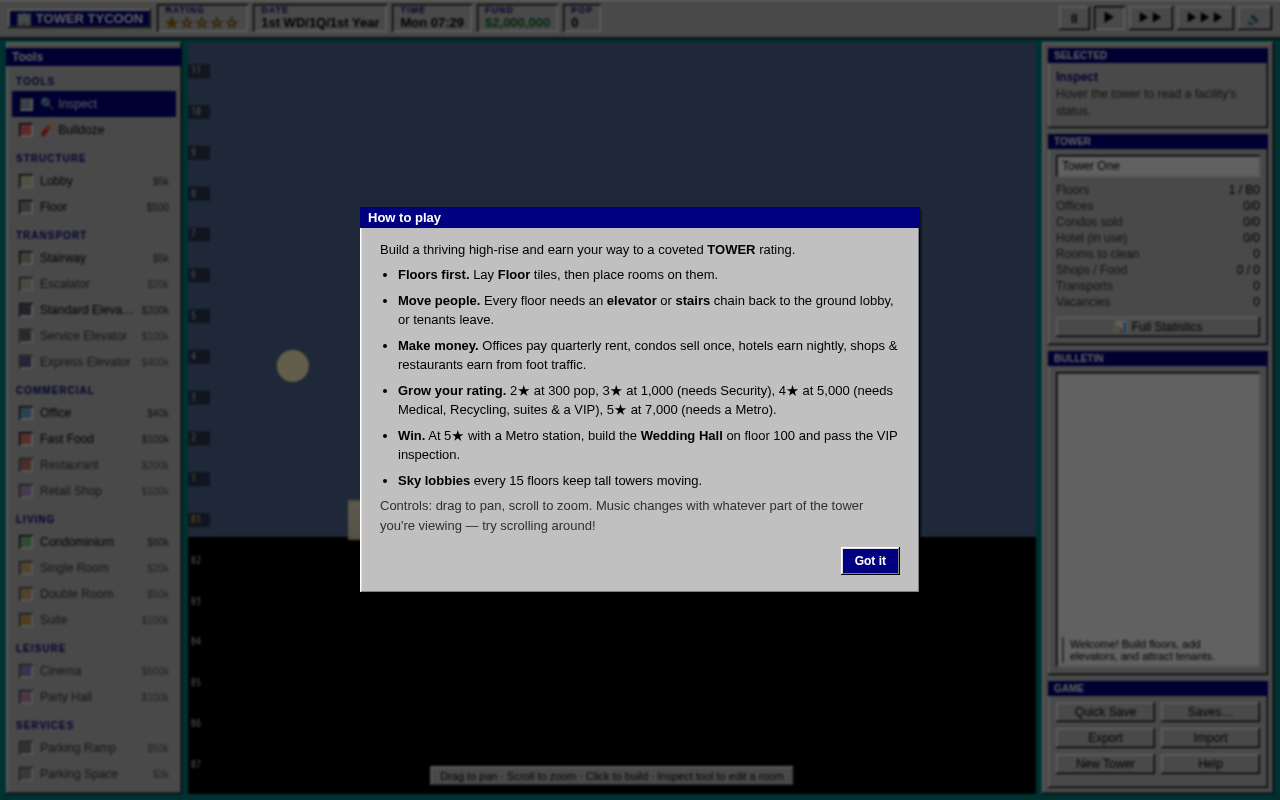
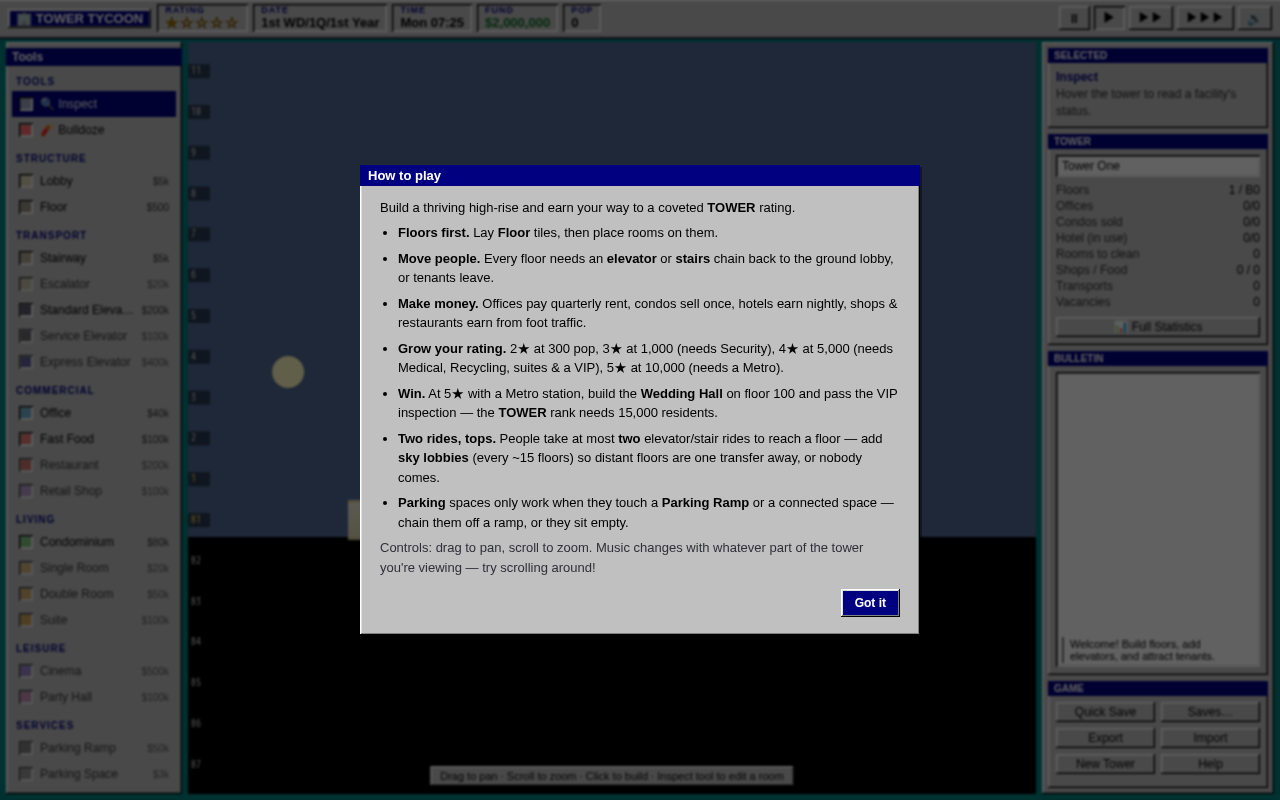
Docs: sync the in-game help + PRD FRs with the shipped parity mechanics
The help page and PRD had drifted after the canon-numbers work:
- In-game help: 5★ now reads 10,000 (was a stale 7,000); adds the TOWER=15,000
  target, the two-ride rule (build sky-lobby transfers), and parking-ramp
  chaining. Regenerated 02-help.png to match.
- PRD FR-46 / FR-67: TOWER target restored to the canonical 15,000 (no longer a
  divergence — reached by widening the lot to 340).
- PRD FR-17: parking spaces only function when chained to a Parking Ramp.
- PRD FR-68: routing honours the original's ≤2-ride (one-transfer) rule.
- PRD FR-16a: cinemas book an average or blockbuster film each month.

Claude-Session: https://claude.ai/code/session_019NA2c4AsAgUYb2ST9bkXi8

Changed region(s): [[0.2812, 0.1875, 0.7188, 0.8125], [0.2188, 0.4375, 0.25, 0.5]]

diff --git a/src/ui/UI.ts b/src/ui/UI.ts
@@ -519,9 +519,10 @@ export class UI {
         <li><b>Floors first.</b> Lay <b>Floor</b> tiles, then place rooms on them.</li>
         <li><b>Move people.</b> Every floor needs an <b>elevator</b> or <b>stairs</b> chain back to the ground lobby, or tenants leave.</li>
         <li><b>Make money.</b> Offices pay quarterly rent, condos sell once, hotels earn nightly, shops &amp; restaurants earn from foot traffic.</li>
-        <li><b>Grow your rating.</b> 2★ at 300 pop, 3★ at 1,000 (needs Security), 4★ at 5,000 (needs Medical, Recycling, suites &amp; a VIP), 5★ at 7,000 (needs a Metro).</li>
-        <li><b>Win.</b> At 5★ with a Metro station, build the <b>Wedding Hall</b> on floor 100 and pass the VIP inspection.</li>
-        <li><b>Sky lobbies</b> every 15 floors keep tall towers moving.</li>
+        <li><b>Grow your rating.</b> 2★ at 300 pop, 3★ at 1,000 (needs Security), 4★ at 5,000 (needs Medical, Recycling, suites &amp; a VIP), 5★ at 10,000 (needs a Metro).</li>
+        <li><b>Win.</b> At 5★ with a Metro station, build the <b>Wedding Hall</b> on floor 100 and pass the VIP inspection — the <b>TOWER</b> rank needs 15,000 residents.</li>
+        <li><b>Two rides, tops.</b> People take at most <b>two</b> elevator/stair rides to reach a floor — add <b>sky lobbies</b> (every ~15 floors) so distant floors are one transfer away, or nobody comes.</li>
+        <li><b>Parking</b> spaces only work when they touch a <b>Parking Ramp</b> or a connected space — chain them off a ramp, or they sit empty.</li>
       </ul>
       <p style="color:var(--muted)">Controls: drag to pan, scroll to zoom. Music changes with whatever part of the tower you're viewing — try scrolling around!</p>
       <div class="modal-actions"><button class="primary" data-act="close">Got it</button></div>

diff --git a/_bmad-output/planning-artifacts/prds/prd-simtower-llm-style-2026-06-30/prd.md b/_bmad-output/planning-artifacts/prds/prd-simtower-llm-style-2026-06-30/prd.md
@@ -247,13 +247,20 @@ mitigate problems. Each facility type unlocks at a minimum star rating
 - **FR-16** — Food/retail/entertainment facilities keep **business hours** and
   display as **CLOSED** outside them; income accrues only while open
   [`isOpenAt`, `hasBusinessHours`].
+- **FR-16a** — Each **Cinema** books a film every month (canon): an **average
+  film** (~$150,000) or, some months, a **blockbuster** (~$300,000) that costs
+  more to book but draws a bigger crowd — a genuine upside in a busy tower and a
+  gamble in a quiet one [`cinemaBookingMonthly`, `cinemaBookingBlockbuster`].
 - **FR-17** — The player can place **Service** facilities — **Parking** (3★,
   basement), **Security** (2★), **Medical Center** (3★), **Housekeeping** (2★),
   **Recycling Center** (3★, basement, 2 floors) — which generate no income and
   provide rating/mitigation effects. Security, Medical, Housekeeping, and
   Recycling each charge monthly maintenance [`ECON.serviceMaintenanceMonthly`];
   Parking carries only its build cost (no monthly service maintenance) and
-  reduces stress for tenants who drive. `[NOTE: Security unlocks at 2★ — it is
+  reduces stress for tenants who drive. Parking has two parts (canon): a
+  **Parking Ramp** and **Parking Spaces**, and a space only functions when it
+  chains — through contiguous spaces — back to a ramp; unconnected spaces are
+  dead ("red X") and provide no relief. `[NOTE: Security unlocks at 2★ — it is
   the facility that GATES 3★ (FR-44), so it must be buildable while the tower is
   still 2★, otherwise the rating deadlocks. Medical (the 4★ gate) unlocks at 3★
   for the same reason.]`
@@ -384,8 +391,10 @@ passes a **VIP inspection**. Realizes **UJ-3**, **UJ-5**.
   (jingle / headline).
 - **FR-46** — The **TOWER rank** requires: **5★** + a built **Wedding Hall**
   (floor 100) + a **Metro Station** + passing the **VIP inspection** at a
-  population target of **8,000** [`TOWER_POPULATION`]. `[NOTE FOR PM: original
-  target is 15,000; reduced to 8,000 for the smaller-scale population model —
+  population target of **15,000** [`TOWER_POPULATION`]. `[RESOLVED 2026-06-30:
+  restored to the canonical 15,000 (from the interim 8,000) by widening the
+  buildable lot to 340 tiles so a well-zoned tower can actually reach it
+  (~15,066 occupants measured); population scale is no longer a divergence —
   see §4.10 / FR-67.]`
   `[DECISION 2026-06-30 (owner): "TOWER" measures OCCUPANT POPULATION (residents +
   office workers + hotel guests) exactly as the 1994 original did — NOT total
@@ -496,17 +505,19 @@ gaps. Full rationale and the complete source-of-truth mapping live in
 - **FR-66** — The floor-100 capstone is a **Wedding Hall**, a religion-agnostic
   stand-in for the original's **Cathedral**; it fills the identical role of
   triggering the TOWER evaluation (see FR-19, FR-46).
-- **FR-67** — The TOWER goal stays a **population census** as in the 1994 original
-  (residents + office workers + hotel guests; commercial visitors excluded), at a
-  target of **8,000** rather than the original's **15,000** — the only divergence
-  is the *number* (scaled to this build), not *what is counted*. The Phase-2
-  tolerance band may re-derive the number from the spatial model, but the metric
-  stays canonical (see the DECISION note on FR-46).
+- **FR-67** — The TOWER goal is a **population census** as in the 1994 original
+  (residents + office workers + hotel guests; commercial visitors excluded), at
+  the canonical target of **15,000**. The interim scaled-down number (8,000) was
+  restored to 15,000 on 2026-06-30 by widening the lot to 340 tiles so the target
+  is genuinely reachable under the spatial model — both the metric *and* the
+  number are now canonical (see the RESOLVED note on FR-46).
 - **FR-68** — Tower transport stress is driven by an **individually-routed
   crowd** (FR-30) layered over an **aggregate congestion model** (FR-34),
   whereas the original used a single aggregate model; the on-screen crowd is
   **capped** for performance (FR-35) while the full population is still
-  simulated.
+  simulated. Routing honours the original's **two-ride rule**: a trip uses at
+  most **two transport rides** (one sky-lobby transfer), so floors reachable only
+  via 3+ rides draw no commuters — the player must provide sky-lobby transfers.
 - **FR-69** — All art and audio are **generated in code** (FR-60), and saves use
   a **JSON format** with only a best-effort `.TWR` importer (FR-65), rather than
   the original's bundled assets and native `.TWR` save format.